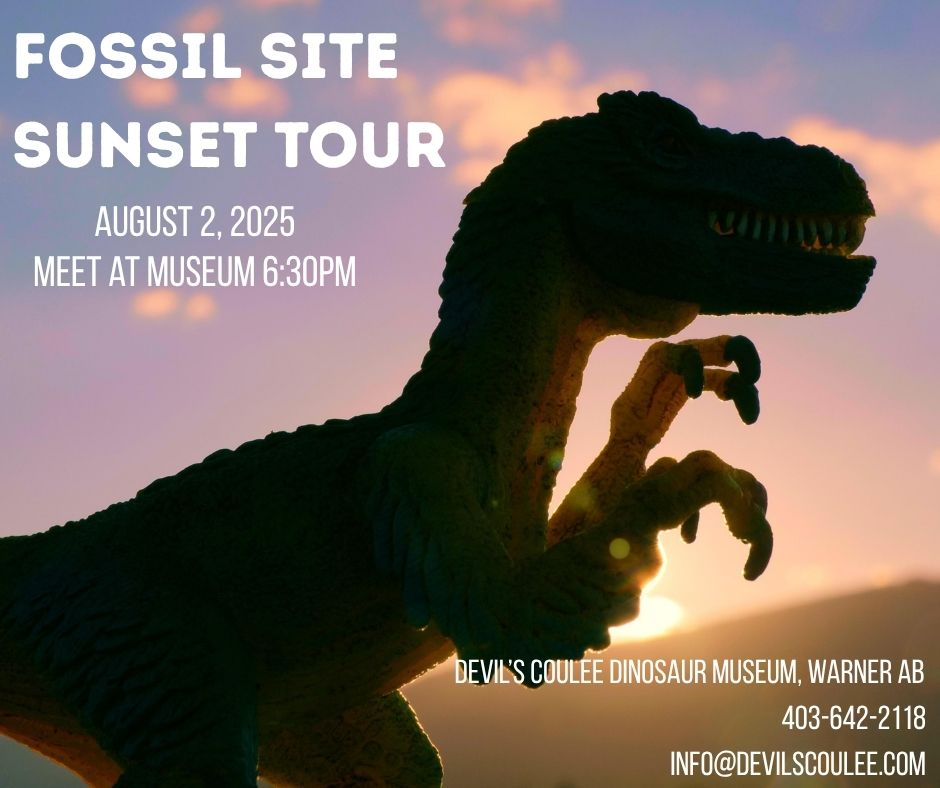
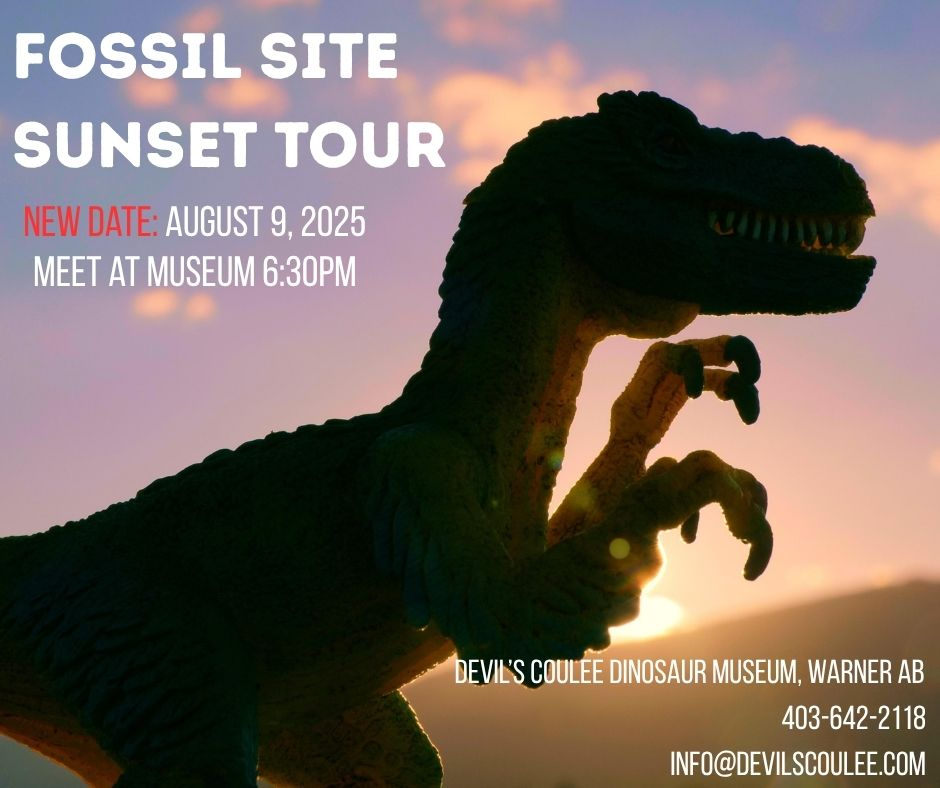
feat: updated devils coulee evening event

Changed region(s): [[0.0, 0.2437, 0.4011, 0.3046]]

diff --git a/src/content/events/2025-08-02-devilsCouleeEveningTour.md b/src/content/events/2025-08-02-devilsCouleeEveningTour.md
@@ -1,6 +1,6 @@
 ---
 title: "Devil's Coulee - Fossil Site Sunset Tour"
-startDate: '2025-08-02'
+startDate: '2025-08-09'
 type: 'External'
 host: "Devil's Coulee Dinosaur Heritage Museum"
 ---
